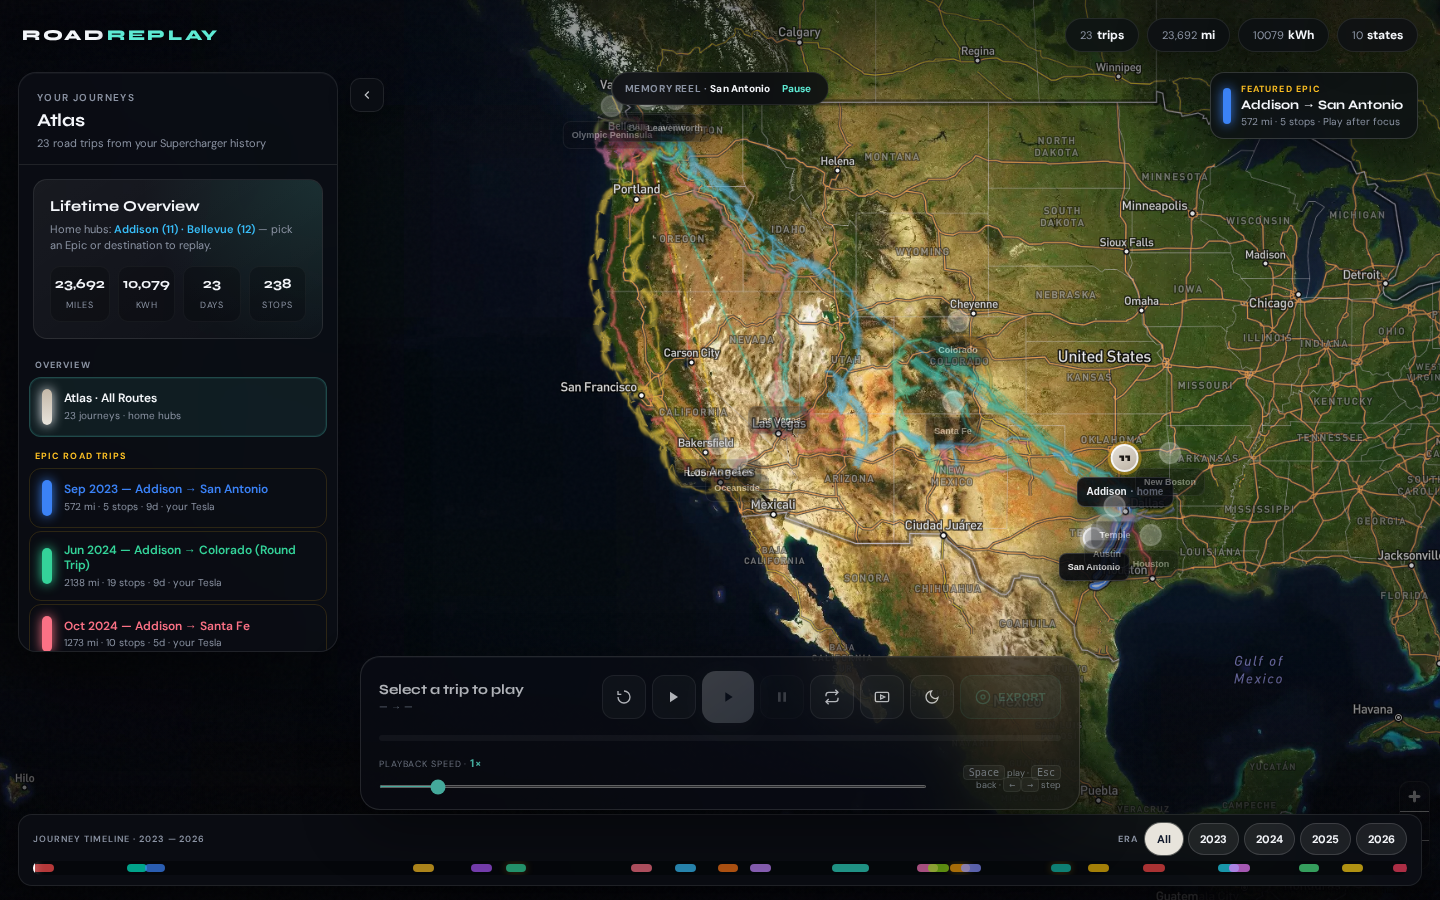
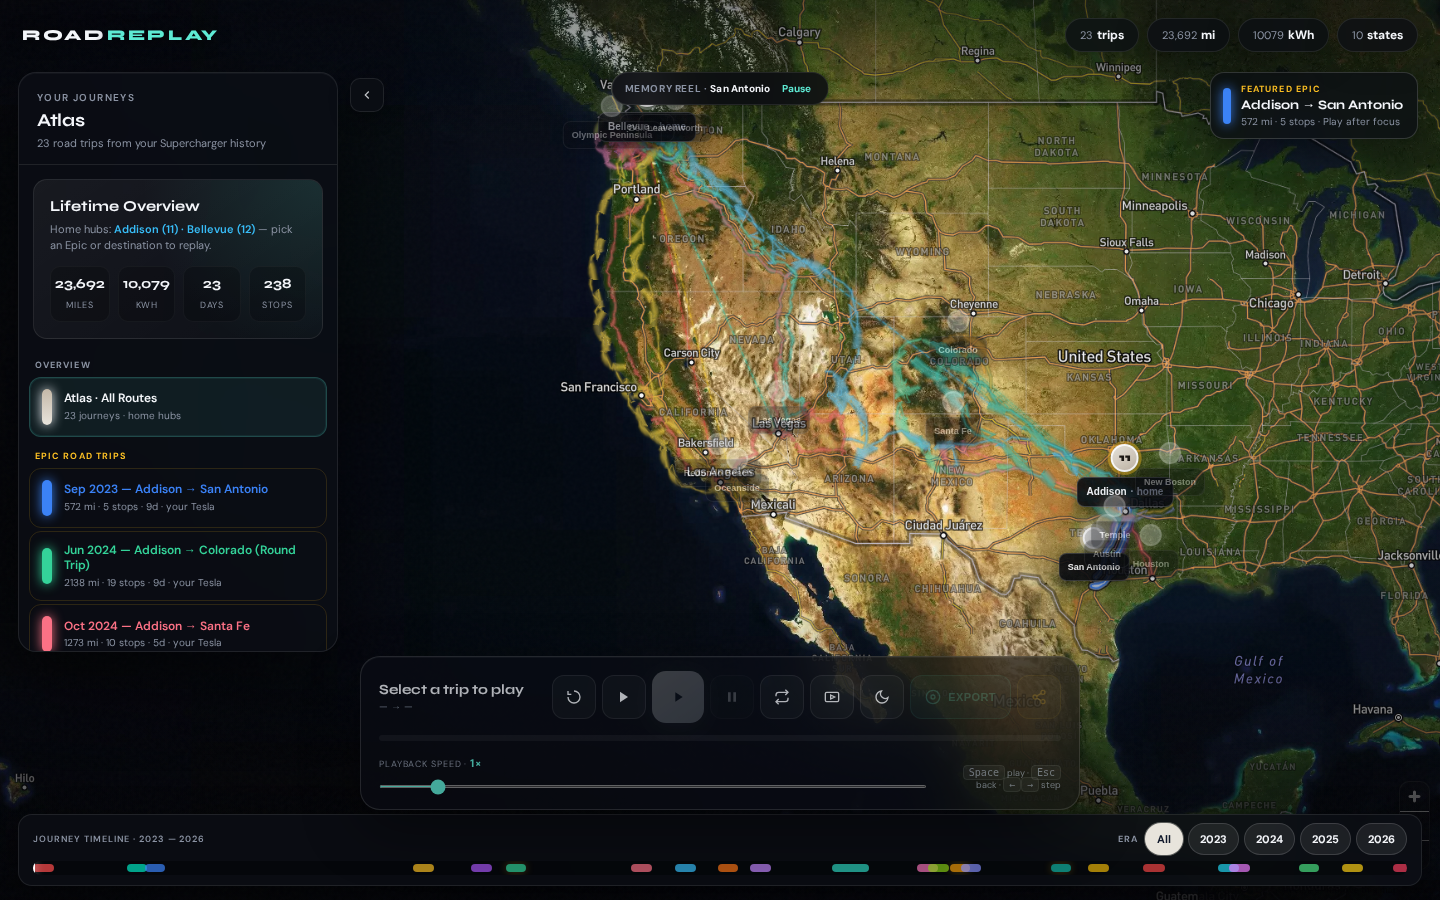
Sprint 4 share: richer dwell captions + Share blurb control
Enrich stop story captions with kWh, visited POIs, and halfway beats.
Add a dock Share button that copies trip stats plus the live demo URL,
with a toast after export. verify_map asserts the share control.

Changed region(s): [[0.4375, 0.7467, 0.5312, 0.8089], [0.4062, 0.1244, 0.5, 0.1556]]

diff --git a/scripts/build_map.py b/scripts/build_map.py
@@ -146,26 +146,49 @@ def build_trip_story(trip: dict, stops: list[dict], stop_pois: list[list[dict]])
     )
 
     stop_captions: list[dict] = []
+    n = len(stops)
     for i, (stop, pois) in enumerate(zip(stops, stop_pois)):
         label = short_location_label(stop["location"])
         city = label.split(",")[0]
-        if pois:
-            poi_text = " · ".join(
-                f"{p['emoji']} {p['name']}" + (" ✓" if p.get("visited") else "")
-                for p in pois[:2]
-            )
-            caption = f"Charging in {city} — nearby: {poi_text}"
-            sub = pois[0].get("tagline", "")
-        elif i == 0:
+        kwh = stop.get("kwh")
+        try:
+            kwh_f = float(kwh) if kwh is not None else None
+        except (TypeError, ValueError):
+            kwh_f = None
+        kwh_bit = f"{kwh_f:.0f} kWh" if kwh_f and kwh_f >= 1 else ""
+        visited = [p for p in (pois or []) if p.get("visited")]
+        nearby = pois or []
+
+        if i == 0:
             caption = f"Departing {city} — the adventure begins"
-            sub = f"First Supercharger of {len(stops)} stops"
-        elif i == len(stops) - 1:
-            caption = f"Final stop · {city}"
-            sub = "Homeward bound"
+            sub = f"First of {n} Supercharger stops" + (f" · {kwh_bit}" if kwh_bit else "")
+        elif i == n - 1:
+            caption = f"Final charge · {city}"
+            sub = (
+                "Homeward bound — journey nearly complete"
+                if origin.split(",")[0] == city or "Home" in (trip.get("dest_label") or "")
+                else f"Last stop of {n}"
+            )
+            if kwh_bit:
+                sub = f"{sub} · {kwh_bit}"
+        elif visited:
+            top = visited[0]
+            caption = f"Charging in {city} — {top.get('emoji', '')} {top.get('name', 'a favorite')} ✓".strip()
+            sub = top.get("tagline") or (f"Stop {i + 1} of {n}" + (f" · {kwh_bit}" if kwh_bit else ""))
+        elif nearby:
+            poi_text = " · ".join(
+                f"{p.get('emoji', '')} {p.get('name', '')}".strip() for p in nearby[:2]
+            )
+            caption = f"Pit stop in {city} — nearby: {poi_text}"
+            sub = nearby[0].get("tagline") or (kwh_bit or f"Stop {i + 1} of {n}")
+        elif i == n // 2:
+            caption = f"Halfway · charging in {city}"
+            sub = (f"{kwh_bit} · " if kwh_bit else "") + f"Stop {i + 1} of {n} across {via}"
         else:
             caption = f"Charging in {city}"
-            sub = f"Stop {i + 1} of {len(stops)}"
-        stop_captions.append({"caption": caption, "sub": sub, "pois": pois})
+            sub = (f"{kwh_bit} · " if kwh_bit else "") + f"Stop {i + 1} of {n}"
+
+        stop_captions.append({"caption": caption, "sub": sub, "pois": nearby})
 
     return {
         "intro": intro,
@@ -760,6 +783,11 @@ def prepare_trips(
         ]
         story = build_trip_story(trip, stops, stop_pois)
         story["intro_title"] = trip["name"]
+        days = trip_duration_days(trip["start"], trip["end"])
+        story["share_blurb"] = (
+            f"{trip['name']} — {miles:,.0f} mi · {len(stops)} Supercharger stops · {days}d\n"
+            "Relive it: https://ramkandimalla94.github.io/tesla-charging-travel-map/"
+        )
         playback = build_playback_timeline(
             stops, route_path, story, stop_pois, cache, token, refresh, stats
         )

diff --git a/scripts/verify_map.py b/scripts/verify_map.py
@@ -353,6 +353,23 @@ def main() -> int:
         )
         print(f"Export cinema: {cinema}")
 
+        # Share blurb button
+        share_state = page.evaluate(
+            """() => {
+              const btn = document.getElementById('btn-share');
+              const trip = activeTrip();
+              const blurb = typeof tripShareBlurb === 'function' ? tripShareBlurb(trip) : '';
+              return {
+                btn: !!btn,
+                enabled: btn && !btn.disabled,
+                hasBlurb: blurb.includes('Relive it:') && blurb.includes('tesla-charging-travel-map'),
+                hasStoryShare: !!(trip?.story?.share_blurb),
+                sampleCaption: trip?.playback?.segments?.find(s => s.type === 'dwell')?.caption || '',
+              };
+            }"""
+        )
+        print(f"Share blurb: {share_state}")
+
         browser.close()
 
     critical_errors = [
@@ -462,6 +479,12 @@ def main() -> int:
         ok = False
     if not cinema.get("portraitish"):
         print(f"FAIL: Map frame not portrait-ish for export: {cinema}")
+        ok = False
+    if not share_state.get("btn") or not share_state.get("enabled"):
+        print(f"FAIL: Share button missing/disabled on trip: {share_state}")
+        ok = False
+    if not share_state.get("hasBlurb"):
+        print(f"FAIL: Share blurb missing live URL: {share_state}")
         ok = False
     if story_pacing.get("ok"):
         if story_pacing.get("midTravelVisible"):

diff --git a/docs/ux-redesign/00-MASTER_PLAN.md b/docs/ux-redesign/00-MASTER_PLAN.md
@@ -10,48 +10,18 @@ Home hubs, destination-forward labels, destination-grouped sidebar, watch mode, 
 
 Destination constellation, year era filter, snappier dwell + dock %, a11y 44px controls.
 
-## Sprint 3 (this branch)
+## Sprint 3 (shipped — #15)
 
-1. **Memory reel** — auto-cycles featured routes on atlas with Pause/Resume
-2. **Hub→destination spokes** — dashed atlas lines from home hubs to constellation stars
-3. **Featured epic CTA** — one-click focus on the headline trip
-4. **Cinema caption safe margins** — caption plate + higher portrait placement
-5. **Mobile sheet polish** — grab handle, larger toggle, CTA reposition
-6. **Epic queue** — Loop button third state plays featured trips in sequence
-7. **Corridor banding** — soft band + parallel filaments for multi-visit destinations
-8. **Template CSS partial** — `travel_map/_map_css.html.j2` include
-9. **Playback DOM cache** — hot-path scrubber/prog updates skip repeated `getElementById`
-10. **Atlas JS partial** — `travel_map/_atlas_js.html.j2` (CTA / reel / spokes)
-11. **Shared spokes GeoJSON** — band + filaments from one `atlas-spokes` source with `kind` filters
-12. **Era rail discoverability** — labeled Era chips, larger hit targets
-13. **Epic-queue dock badge** — `Epic queue · i/n` when Loop is in queue mode
-14. **Playback JS partial** — `travel_map/_playback_js.html.j2`
-15. **Routes JS partial** — `travel_map/_routes_js.html.j2`
-16. **Mobile sheet regression** — 390×844 verify + denser grab handle / dock fit
-17. **Markers JS partial** — hubs / constellation / stop beacons
-18. **Denser corridor polish** — stronger bands + more filaments for multi-visit dests
-19. **README screenshot gallery** — watch / memory / mobile captions; removed duplicate Quick start
+Memory reel, spokes + corridor banding, featured CTA, epic queue + badge, Era rail, mobile sheet, Jinja partials, playback perf.
 
-## Sprint 4 (this branch — started)
+## Sprint 4 (this branch + #15 carryover)
 
-1. **Export title/outro holds** — record intro card ~2.4s + outro ~2.2s on-canvas
-2. **9:16 safe margins** — portrait title in upper third; caption plate mid-lower
-3. **Export chrome hide** — CTA/memory/dock/timeline fully suppressed in cinema-mode
-4. **Export JS partial** — `travel_map/_export_js.html.j2`
-5. **Caption pacing** — travel captions only at segment edges; dwell POIs after settle-in; DOM-diff overlay
-
-## Sprint 3 DoD (ready for review)
-
-- [x] Atlas declutter: hubs + dest stars (no per-trip stop soup)
-- [x] Memory reel + Pause; featured CTA; spokes + corridor banding
-- [x] Era filter chips work and are discoverable
-- [x] Watch mode collapses panel; Esc returns to atlas
-- [x] Epic queue Loop state + dock badge `i/n`
-- [x] Mobile 390×844 sheet + grab + 44px toggle (`verify_map`)
-- [x] `verify_map.py` green (desktop + mobile + cinema framing)
-- [x] README live URL + screenshot gallery current
-- [ ] Human review of PR #15 / merge to `main` (Pages deploy)
+1. **Export title/outro holds** — shipped in #15
+2. **9:16 safe margins** — shipped in #15
+3. **Caption pacing** — shipped in #15
+4. **Richer dwell story captions** — kWh / visited POI / halfway copy in `build_trip_story`
+5. **Share blurb** — dock Share copies trip caption + live demo URL; toast after export
 
 ## Later
 
-Further share polish (optional dwell caption copy from trip story).
+Optional: Web Share API when available; per-stop story overrides in owner config.

diff --git a/README.md b/README.md
@@ -22,6 +22,7 @@ Every merge to `main` rebuilds this site via GitHub Actions (`.github/workflows/
 - **Time-accurate playback** — overnight halts pace charging beats without long freezes; dwell progress in the dock
 - **Location labels on map** — city/state names appear at each stop during replay
 - **Instagram video export** — one-click `.webm` with intro/outro title cards and 9:16 safe margins
+- **Share blurb** — copy a trip caption + live demo link from the dock Share control
 - **Works for any Tesla owner** — drop in your CSV exports; home base auto-detected (or override via config)
 - Trip segmentation, timeline scrubber, director camera, night mode, GPX export
 

diff --git a/docs/ux-redesign/ROAD_REPLAY_SCRUM_BOARD.md b/docs/ux-redesign/ROAD_REPLAY_SCRUM_BOARD.md
@@ -5,7 +5,7 @@
 **Critical complaint:** Home page locations overlapping; UI feels poor  
 **This doc owns:** Process, backlog, DoD, handoffs — **not** implementation  
 
-**Team session status (2026-08-21):** Sprint 0–2 merged. Sprint 3 (+ Sprint 4 export polish) implemented on PR **#15** (`cursor/road-replay-sprint3-cinema-9f19`) — DoD checklist in `00-MASTER_PLAN.md` is green except human review/merge. Live URL unchanged.
+**Team session status (2026-08-21):** Sprint 0–3 merged (#12–#15). Pages deploy green. Sprint 4 share polish continues on `cursor/road-replay-sprint4-share-9f19`. Live URL unchanged.
 
 ---
 
